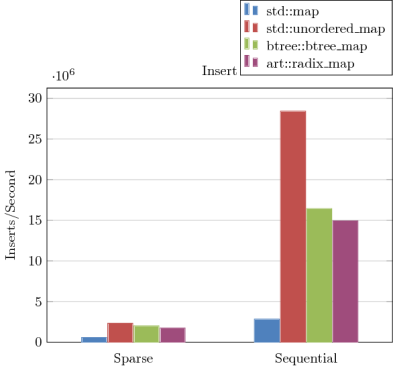
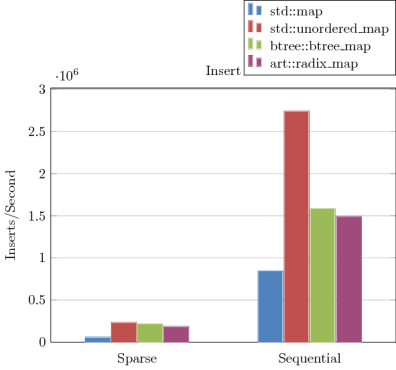
update charts and cleanup

diff --git a/benchmarks/gbench/gbenchmarks.cpp b/benchmarks/gbench/gbenchmarks.cpp
@@ -168,7 +168,7 @@ static void BM_Insert_Sparse(benchmark::State &state) {
             state.PauseTiming();
         }
     }
-    const size_t items_processed = state.iterations() * state.range_x();
+    const size_t items_processed = state.iterations() * state.range_x() / 10;
     state.SetItemsProcessed(items_processed);
 }
 
@@ -200,7 +200,7 @@ static void BM_Insert_Dense(benchmark::State &state) {
             state.PauseTiming();
         }
     }
-    const size_t items_processed = state.iterations() * state.range_x();
+    const size_t items_processed = state.iterations() * state.range_x() / 10;
     state.SetItemsProcessed(items_processed);
 }
 
@@ -236,7 +236,7 @@ static void BM_Insert_Sequential(benchmark::State &state) {
             state.PauseTiming();
         }
     }
-    const size_t items_processed = state.iterations() * state.range_x();
+    const size_t items_processed = state.iterations() * state.range_x() / 10;
     state.SetItemsProcessed(items_processed);
 }
 
@@ -268,7 +268,7 @@ static void BM_Erase_Sparse(benchmark::State &state) {
                 m.insert(std::make_pair(values[j], 1));
         }
     }
-    const size_t items_processed = state.iterations() * state.range_x();
+    const size_t items_processed = state.iterations() * state.range_x() / 10;
     state.SetItemsProcessed(items_processed);
 }
 
@@ -300,7 +300,7 @@ static void BM_Erase_Dense(benchmark::State &state) {
                 m.insert(std::make_pair(values[j], 1));
         }
     }
-    const size_t items_processed = state.iterations() * state.range_x();
+    const size_t items_processed = state.iterations() * state.range_x() / 10;
     state.SetItemsProcessed(items_processed);
 }
 
@@ -377,13 +377,31 @@ static void BM_Iteration_Dense(benchmark::State &state) {
     state.SetItemsProcessed(items_processed);
     state.SetBytesProcessed(items_processed * sizeof(V));
 }
+BENCHMARK_TEMPLATE(BM_Lookup_Dense_Valid, btree::btree_map<int64_t, int>)
+        ->Range(1 << START, 1 << END)
+        ->Unit(benchmark::TimeUnit::kMillisecond)
+        ->MinTime(5.0);
+
+BENCHMARK_TEMPLATE(BM_Lookup_Dense_Valid, art::radix_map<int32_t, int>)
+        ->Range(1 << START, 1 << END)
+        ->Unit(benchmark::TimeUnit::kMillisecond)
+        ->MinTime(5.0);
+
+BENCHMARK_TEMPLATE(BM_Lookup_Dense_Valid, btree::btree_map<int32_t, int>)
+        ->Range(1 << START, 1 << END)
+        ->Unit(benchmark::TimeUnit::kMillisecond)
+        ->MinTime(5.0);
+
+BENCHMARK_TEMPLATE(BM_Lookup_Dense_Valid, art::radix_map<int64_t, int>)
+        ->Range(1 << START, 1 << END)
+        ->Unit(benchmark::TimeUnit::kMillisecond)
+        ->MinTime(5.0);
 
 ////////////
 // INSERT //
 ////////////
 const double MIN_INSERT_TIME = 2.0;
 
-/*
 BENCHMARK_TEMPLATE(BM_Insert_Sparse, std::map<int64_t, int>)
         ->Range(1 << START, 1 << END)
         ->Unit(benchmark::TimeUnit::kMillisecond)
@@ -417,13 +435,14 @@ BENCHMARK_TEMPLATE(BM_Insert_Sequential, art::radix_map<int64_t, int>)
         ->Range(1 << START, 1 << END)
         ->Unit(benchmark::TimeUnit::kMillisecond)
         ->MinTime(MIN_INSERT_TIME);
-*/
+
 
 ////////////
 // LOOKUP //
 ////////////
 
 const double MIN_LOOKUP_TIME = 5.0;
+/**
 BENCHMARK_TEMPLATE(BM_Lookup_Sparse_Valid, art::radix_map<int64_t, int>)
         ->Range(1 << START, 1 << END)
         ->Unit(benchmark::TimeUnit::kMillisecond)
@@ -432,6 +451,7 @@ BENCHMARK_TEMPLATE(BM_Lookup_Dense_Valid, art::radix_map<int64_t, int>)
         ->Range(1 << START, 1 << END)
         ->Unit(benchmark::TimeUnit::kMillisecond)
         ->MinTime(MIN_LOOKUP_TIME);
+*/
 
 
 /**
@@ -511,6 +531,7 @@ BENCHMARK_TEMPLATE(BM_Lookup_Dense_Valid, art::radix_map<int32_t, int>)
         ->Range(1 << START, 1 << END)
         ->Unit(benchmark::TimeUnit::kMillisecond)
         ->MinTime(MIN_LOOKUP_TIME);
+
 
 // DENSE INT64 KEY: VALID KEYS ONLY
 BENCHMARK_TEMPLATE(BM_Lookup_Dense_Valid, std::map<int64_t, int>)

diff --git a/include/art/adaptive_radix_tree.h b/include/art/adaptive_radix_tree.h
@@ -546,7 +546,8 @@ namespace art
             virtual node_type get_type() const override { return node_type::node_4_t; }
 
             virtual void debug() const override {
-                std::cout << this << " Node 4, count: " << this->size()
+                std::cout << this << " Node 4, depth: " << this->_depth
+                                  << " count: " << this->size()
                           << ", parent " << this->_parent << std::endl;
                 if (this->size() > 0) {
                     for (size_t i = 0; i < this->_count; i++) {
@@ -756,7 +757,8 @@ namespace art
             virtual node_type get_type() const override { return node_type::node_16_t; }
 
             virtual void debug() const override {
-                std::cout << this << " Node 16, count: " << this->size()
+                std::cout << this << " Node 16, depth: " << this->_depth
+                                  << " count: " << this->size()
                           << ", parent " << this->_parent << std::endl;
                 for (size_t i = 0; i < this->_count; i++) {
                     std::cout << ((unsigned) keys[i]) << " | ";
@@ -961,15 +963,17 @@ namespace art
             virtual node_type get_type() const override { return node_type::node_48_t; }
 
             virtual void debug() const override {
-                std::cout << this << " Node 48, count: " << this->size()
+                std::cout << this << " Node 48, depth: " << this->_depth
+                                  << " count: " << this->size()
                           << ", parent " << this->_parent << std::endl;
                 for (size_t i = 0; i < 256; i++) {
                     if (child_index[i] != EMPTY_MARKER)
                         std::cout << i << " | ";
                 }
                 std::cout << std::endl;
-                for (size_t i = 0; i < this->_count; i++) {
-                    std::cout << i << ": " << children[i] << " | ";
+                for (size_t i = 0; i < 256; i++) {
+                    if (child_index[i] != EMPTY_MARKER)
+                        std::cout << i << ": " << children[child_index[i]] << " | ";
                 }
                 std::cout << std::endl;
             }
@@ -1141,7 +1145,8 @@ namespace art
             virtual node_type get_type() const override { return node_type::node_256_t; }
 
             virtual void debug() const override {
-                std::cout << this << " Node 256, count: " << this->size()
+                std::cout << this << " Node 256, depth: " << this->_depth
+                          << " count: " << this->size()
                           << ", parent " << this->_parent << std::endl;
                 for (size_t i = 0; i < 256; i++) {
                     if (children[i] != nullptr)

diff --git a/tests/radix_map/stress_tests.cpp b/tests/radix_map/stress_tests.cpp
@@ -109,7 +109,7 @@ TEST_CASE("Radix map stress test erase by key", "[radix-map-stress]") {
         }
 
         REQUIRE(radix_map.size() == std_map.size());
-        for (int k = (i+1) * block_size; k < data.size(); k++) {
+        for (int k = (i + 1) * block_size; k < data.size(); k++) {
             REQUIRE(radix_map.at(data[k]) == std_map.at(data[k]));
         }
 
@@ -155,7 +155,7 @@ TEST_CASE("Radix map stress test erase by iterator", "[radix-map-stress]") {
         }
 
         REQUIRE(radix_map.size() == std_map.size());
-        for (int k = (i+1) * block_size; k < data.size(); k++) {
+        for (int k = (i + 1) * block_size; k < data.size(); k++) {
             REQUIRE(radix_map.at(data[k]) == std_map.at(data[k]));
         }
 
@@ -202,5 +202,54 @@ TEST_CASE("Radix map stress test lower & upper bound", "[radix-map-stress]") {
                 REQUIRE(it_art == art.end());
             }
         }
+    }
+}
+
+TEST_CASE("Radix map stress test erase by iterator range", "[radix-map-stress]") {
+    for (int i = 0; i < 10; i++) {
+        std::map<int, int> map;
+        art::radix_map<int, int> radix_map;
+
+        std::random_device rd;
+        std::mt19937 gen(rd());
+        std::uniform_int_distribution<int> dis(-100000, 100000);
+
+        for (int i = 0; i < 20000; i++) {
+            auto key = dis(gen);
+            map.emplace(key, 2 * i);
+            radix_map.emplace(key, 2 * i);
+        }
+
+        auto candidate = dis(gen);
+        auto std_start = map.lower_bound(candidate);
+        auto art_start = radix_map.lower_bound(candidate);
+
+        auto std_end = std_start;
+        auto art_end = art_start;
+
+        long max = std::distance(std_start, map.end());
+        if (max == 0) continue;
+
+        std::uniform_int_distribution<long> advance_dis(1, max);
+
+        auto steps = advance_dis(gen);
+        std::advance(std_end, steps);
+        std::advance(art_end, steps);
+
+        REQUIRE(art_end->first == std_end->first);
+        REQUIRE(art_end->second == std_end->second);
+
+        map.erase(std_start, std_end);
+        radix_map.erase(art_start, art_end);
+
+        REQUIRE(radix_map.size() == map.size());
+
+        auto it_radix = radix_map.begin(), it_radix_end = radix_map.end();
+        auto it_std = map.begin(), it_std_end = map.end();
+        for (; it_std != it_std_end; ++it_radix, ++it_std) {
+            REQUIRE(it_radix->first == it_std->first);
+            REQUIRE(it_radix->second == it_std->second);
+        }
+        REQUIRE(it_radix == it_radix_end);
     }
 }

diff --git a/include/art/radix_map.h b/include/art/radix_map.h
@@ -248,8 +248,9 @@ namespace art
         }
 
         iterator erase(iterator __first, iterator __last) {
-            for (; __first != __last; ++__first)
-                _M_t.erase(__first);
+            while (__first != __last) {
+                _M_t.erase(__first++);
+            }
 
             return __last;
         }

diff --git a/include/art/radix_set.h b/include/art/radix_set.h
@@ -211,8 +211,9 @@ namespace art
         }
 
         iterator erase(iterator __first, iterator __last) {
-            for (; __first != __last; ++__first)
-                _M_t.erase(__first);
+            while (__first != __last) {
+                _M_t.erase(__first++);
+            }
 
             return __last;
         }

diff --git a/README.md b/README.md
@@ -1,8 +1,8 @@
 # cpp-art [![Build Status](https://travis-ci.com/philipbecker/cpp-art.svg?token=hxeqbVxYkPnTffugJJXK&branch=master)](https://travis-ci.com/philipbecker/cpp-art) [![license](https://img.shields.io/github/license/mashape/apistatus.svg?maxAge=2592000)](https://github.com/philipbecker/cpp-art/blob/master/LICENSE)
-cpp-art is a C++11 STL-like map and set container based on an [Adaptive Radix Tree](http://db.in.tum.de/~leis/papers/ART.pdf) (ART) implementation. ART supports O(k) operations (where k is the size of the key in bytes) while limiting the characteristic space overhead of radix trees by changing node sizes. (See the [wiki](https://github.com/philipbecker/cpp-art/wiki) for more information). The containers provide virtually the same interface as their stl counterparts (see the wiki for the interface documentation: [radix_map](https://github.com/philipbecker/adaptive_radix_tree/wiki/art::radix_map), [radix_set](https://github.com/philipbecker/adaptive_radix_tree/wiki/art::radix_set)) and they meet (mostly/completely?) the requirements of [Container](http://en.cppreference.com/w/cpp/concept/Container), [AssociativeContainer](http://en.cppreference.com/w/cpp/concept/AssociativeContainer) (for the most part, there is a key_transform instead of key_comp) and [ReversibleContainer](http://en.cppreference.com/w/cpp/concept/ReversibleContainer). (Please report other deviations as issues.)
+cpp-art is a C++11 STL-like map and set container based on an [Adaptive Radix Tree](http://db.in.tum.de/~leis/papers/ART.pdf) (ART) implementation. ART supports O(k) operations (where k is the size of the key in bytes) while limiting the characteristic space overhead of radix trees by changing node sizes. (See the [wiki](https://github.com/philipbecker/cpp-art/wiki) for more information.) The containers provide virtually the same interface as their stl counterparts (see the wiki for the interface documentation: [radix_map](https://github.com/philipbecker/adaptive_radix_tree/wiki/art::radix_map), [radix_set](https://github.com/philipbecker/adaptive_radix_tree/wiki/art::radix_set)) and they meet (mostly/completely?) the requirements of [Container](http://en.cppreference.com/w/cpp/concept/Container), [AssociativeContainer](http://en.cppreference.com/w/cpp/concept/AssociativeContainer) (there is a [key_transform](https://github.com/philipbecker/cpp-art/wiki/art::key_transform) instead of key_comp) and [ReversibleContainer](http://en.cppreference.com/w/cpp/concept/ReversibleContainer). (Please report other deviations as issues.)
 
 
-# Some (Remaining) Differences & Limitations
+# Some (Temporary) Differences & Limitations
 * **Only integers are supported as keys** out of the box at the moment. Support for string/char is on the roadmap.
 * There is a **`key_transform`** function instead of `key_comp`/`hash` that you can implement for **custom types**. The return type of  `key_transform` **must be an integer type** for now.
 * Container is **not thread-safe** (yet)!!!
@@ -14,12 +14,12 @@ cpp-art is a C++11 STL-like map and set container based on an [Adaptive Radix Tr
 cpp-art is a header-only library and requires C++11 features. Simply add `<path-of-your-choice>/cpp-art/include` to your include paths and then the relevant headers can then be included with `#include <art/radix_set.h>` and `#include <art/radix_map.h>`. For further information, please take a look at the [wiki](https://github.com/philipbecker/cpp-art/wiki).
 
 # (Preliminary) Benchmarks
- * **Sparse**: Sampled uniform at random of the entire domain.
+ * **Sparse**: Sampled uniform at random of the entire key type's domain.
  * **Dense**: Sequential keys 0..16M.
  * Comparison of std::map, std::unordered_map, google's cpp-btree and cpp-art.
  * Preliminary because of lacking due diligence when measuring and, seeing as some main features are still missing in cpp-art, there also hasn't been performance optimization. Also, variance is very high, in particular for the radix tree.
  
-## Insert 1.6M Elements into a Container with 16M Elements
+## Insert 1.6M Elements into a Container with 16M Elements (64-Bit Keys)
 ![](benchmarks/charts/insert-10.png?raw=true)
 ## Random Lookup of Valid 64-Bit (left) and 32-Bit (right) Keys in a Container with 16M Elements
 Looking up non-existing keys is up to 3-5 times faster in a radix tree, other containers are unaffected or gain much less.
